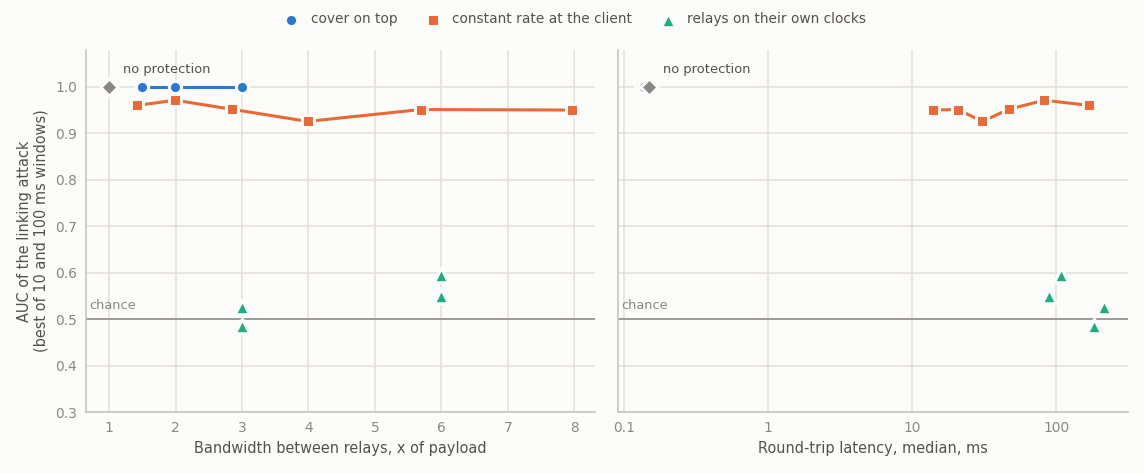
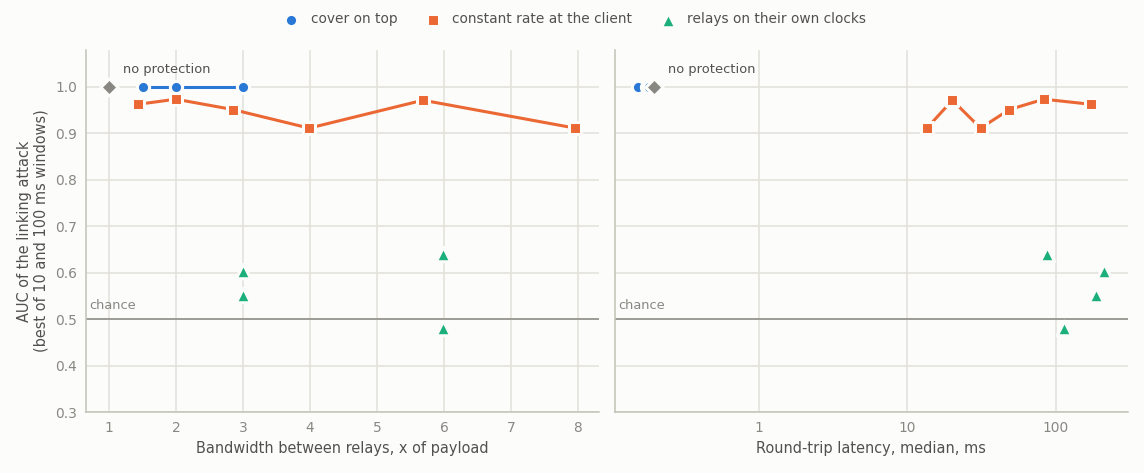
docs: results of the preliminary series re-run on revision 71e1ad8
Table, text and figures of both READMEs come from the reports of the re-run.
Relay clocks are stated as close to chance with the spread of single runs.

diff --git a/README.ru.md b/README.ru.md
@@ -71,11 +71,11 @@
 
 ## Результаты
 
-Предварительная серия: десять потоков, три узла, набор c25519, пять прогонов по 30 с на
-конфигурацию, расписание каждого клиента стартует со случайной фазой. Каждое число это медиана
-пяти прогонов. Строки только с клиентом взяты из серии по скоростям клиента, строки с часами
-узлов из серии по периодам узлов; её собственные прогоны только с клиентом совпадают (AUC 0.947 при
-70 мс, 0.950 при 35 мс). При пяти прогонах на точку различия значимыми не заявляются; полная
+Предварительная серия на ревизии 71e1ad8: десять потоков, три узла, набор c25519, пять прогонов
+по 30 с на конфигурацию, расписание каждого клиента стартует со случайной фазой. Каждое число это
+медиана пяти прогонов. Строки только с клиентом взяты из серии по скоростям клиента, строки с
+часами узлов из серии по периодам узлов; её собственные прогоны только с клиентом совпадают (AUC
+0.951 при 70 мс и при 35 мс). При пяти прогонах на точку различия значимыми не заявляются; полная
 серия по тридцать прогонов на точку впереди
 ([#23](https://github.com/jimichi-org/jimichi/issues/23)). Обвязка lab запускает узлы и клиентов
 в одном процессе на loopback, а не на стенде kind, описанном ниже, поэтому сетевых задержек нет;
@@ -93,39 +93,43 @@
 
 | Защита | Полоса между узлами | Медиана круга | AUC, 10 мс | AUC, 100 мс | Top-1, 10 мс |
 |---|---|---|---|---|---|
-| нет | x1.00 | 0.15 мс | 1.000 | 1.000 | 100% |
-| фон поверх, +2x | x2.99 | 0.13 мс | 1.000 | 1.000 | 100% |
-| постоянная скорость клиента, 70 мс | x2.85 | 47 мс | 0.948 | 0.952 | 60% |
-| постоянная скорость клиента, 35 мс | x5.69 | 21 мс | 0.951 | 0.942 | 70% |
-| узлы по своим часам, 66.5 мс | x3.00 | 182 мс | 0.485 | 0.483 | 0% |
-| узлы по своим часам, 33.25 мс | x5.99 | 89 мс | 0.528 | 0.550 | 10% |
-| оба, клиент 70 мс, узлы 66.5 мс | x2.99 | 216 мс | 0.506 | 0.526 | 15% |
-| оба, клиент 35 мс, узлы 33.25 мс | x5.99 | 108 мс | 0.596 | 0.486 | 10% |
+| нет | x1.00 | 0.198 мс | 1.000 | 1.000 | 100% |
+| фон поверх, +2x | x2.99 | 0.155 мс | 1.000 | 1.000 | 100% |
+| постоянная скорость клиента, 70 мс | x2.85 | 49 мс | 0.951 | 0.951 | 70% |
+| постоянная скорость клиента, 35 мс | x5.69 | 20 мс | 0.971 | 0.971 | 80% |
+| узлы по своим часам, 66.5 мс | x3.00 | 185 мс | 0.523 | 0.551 | 10% |
+| узлы по своим часам, 33.25 мс | x5.99 | 87 мс | 0.641 | 0.498 | 15% |
+| оба, клиент 70 мс, узлы 66.5 мс | x3.00 | 212 мс | 0.604 | 0.586 | 14% |
+| оба, клиент 35 мс, узлы 33.25 мс | x5.99 | 113 мс | 0.482 | 0.463 | 0% |
 
 - Фоновый трафик поверх сообщений не помогает вообще: даже при тройной полосе связывается каждый
   поток.
 - Постоянная скорость на клиенте тоже не скрывает поток. Каждый клиент тикает со своей фазой, фаза
   проходит через цепочку узлов, пересылающих сразу, и при окне 10 мс атака связывает потоки на
-  любой скорости. Окно 100 мс выглядит безопасным только там, где период его делит: тогда почти в
-  каждом окне одинаковое число ячеек и почти все оценки равны (AUC 0.50-0.55), о защите это ничего
-  не говорит. В этой серии последний запущенный клиент тикал в такт окнам наблюдателя, этот
-  эффект стенда с тех пор убран.
+  любой скорости (AUC 0.91-0.99). Окно 100 мс выглядит безопасным только там, где период его
+  делит: тогда почти в каждом окне одинаковое число ячеек и почти все оценки равны (AUC
+  0.50-0.55), о защите это ничего не говорит.
 
 <picture>
   <source media="(prefers-color-scheme: dark)" srcset="docs/img/window-ru-dark.png">
   <img alt="AUC атаки против периода ячеек клиента при окнах 10 и 100 мс" src="docs/img/window-ru-light.png">
 </picture>
 
-- Отправка узлами по своим часам опускает эту атаку, которая считает только ячейки, до угадывания.
-  Цена: постоянный поток на каждом канале, по которому шлёт узел, и около 2.5-2.7 периода узла
-  к кругу (182 мс при 66.5 мс, 89 мс при 33.25 мс). Период узла на 5% короче клиентского, чтобы
-  пропущенный тик наверстать. Моменты открытия и закрытия соединений цепочки совпадают вдоль
-  неё и в атаку пока не входят ([#43](https://github.com/jimichi-org/jimichi/issues/43)).
+- Отправка узлами по своим часам опускает эту атаку, которая считает только ячейки, почти до
+  угадывания: медианы лежат между 0.46 и 0.64, а 95% интервал отдельного прогона включает 0.5 в
+  34 случаях из 40 (из остальных шести четыре лежат выше, два ниже). Пять прогонов по десять
+  потоков не отличают малую остаточную утечку от её отсутствия, это покажет полная серия. Цена:
+  постоянный поток на каждом канале, по которому шлёт узел, и около 2.6-2.8 периода узла к кругу
+  (185 мс при 66.5 мс, 87 мс при 33.25 мс). Период узла на 5% короче клиентского, чтобы
+  пропущенный тик наверстать. Моменты открытия и закрытия соединений цепочки совпадают вдоль неё
+  и в атаку пока не входят
+  ([#43](https://github.com/jimichi-org/jimichi/issues/43)).
 - Постоянная скорость клиента нужна и при часах на узлах: она скрывает разговор от самого входного
   узла, которого здешний наблюдатель не моделирует.
 
 Серии гоняются на свободном хосте; в каждой строке отчёта записаны загрузка хоста, зёрна и ревизия
-кода.
+кода. Круг без часов на узлах короче миллисекунды и отличается между сериями примерно на 0.05 мс
+(0.14-0.20 мс без защиты), поэтому его последние цифры ничего не значат.
 
 ## Криптография
 

diff --git a/README.md b/README.md
@@ -69,12 +69,13 @@ Threat modelling follows the FSTEC methodology of 2021-02-05; scenarios are name
 
 ## Results
 
-Preliminary series: ten flows, three relays, c25519 suite, five 30 s runs per configuration, each
-client starting its schedule at a random phase. Every number is the median across the five runs.
-Rows with the client alone come from the series over client rates, rows with relay clocks from
-the series over relay periods, whose own client-only runs agree (AUC 0.947 at 70 ms, 0.950 at
-35 ms). With five runs per point no difference is claimed as significant; the full series of
-thirty runs per point is still to come ([#23](https://github.com/jimichi-org/jimichi/issues/23)).
+Preliminary series on revision 71e1ad8: ten flows, three relays, c25519 suite, five 30 s runs per
+configuration, each client starting its schedule at a random phase. Every number is the median
+across the five runs. Rows with the client alone come from the series over client rates, rows with
+relay clocks from the series over relay periods, whose own client-only runs agree (AUC 0.951 at
+70 ms and at 35 ms). With five runs per point no difference is claimed as significant; the full
+series of thirty runs per point is still to come
+([#23](https://github.com/jimichi-org/jimichi/issues/23)).
 The lab harness starts the relays and the clients in one process on loopback, not on the kind
 testbed described below, so there is no network delay; network emulation is planned
 ([#46](https://github.com/jimichi-org/jimichi/issues/46)).
@@ -91,40 +92,43 @@ better one for the observer. Chance is AUC 0.5 and top-1 10%.
 
 | Protection | Bandwidth between relays | Median round trip | AUC, 10 ms | AUC, 100 ms | Top-1, 10 ms |
 |---|---|---|---|---|---|
-| none | x1.00 | 0.15 ms | 1.000 | 1.000 | 100% |
-| cover on top, +2x | x2.99 | 0.13 ms | 1.000 | 1.000 | 100% |
-| constant rate at the client, 70 ms | x2.85 | 47 ms | 0.948 | 0.952 | 60% |
-| constant rate at the client, 35 ms | x5.69 | 21 ms | 0.951 | 0.942 | 70% |
-| relays on their own clocks, 66.5 ms | x3.00 | 182 ms | 0.485 | 0.483 | 0% |
-| relays on their own clocks, 33.25 ms | x5.99 | 89 ms | 0.528 | 0.550 | 10% |
-| both, client 70 ms, relays 66.5 ms | x2.99 | 216 ms | 0.506 | 0.526 | 15% |
-| both, client 35 ms, relays 33.25 ms | x5.99 | 108 ms | 0.596 | 0.486 | 10% |
+| none | x1.00 | 0.198 ms | 1.000 | 1.000 | 100% |
+| cover on top, +2x | x2.99 | 0.155 ms | 1.000 | 1.000 | 100% |
+| constant rate at the client, 70 ms | x2.85 | 49 ms | 0.951 | 0.951 | 70% |
+| constant rate at the client, 35 ms | x5.69 | 20 ms | 0.971 | 0.971 | 80% |
+| relays on their own clocks, 66.5 ms | x3.00 | 185 ms | 0.523 | 0.551 | 10% |
+| relays on their own clocks, 33.25 ms | x5.99 | 87 ms | 0.641 | 0.498 | 15% |
+| both, client 70 ms, relays 66.5 ms | x3.00 | 212 ms | 0.604 | 0.586 | 14% |
+| both, client 35 ms, relays 33.25 ms | x5.99 | 113 ms | 0.482 | 0.463 | 0% |
 
 - Cover traffic added on top of real messages does not help at all: even at three times the
   bandwidth every flow is linked.
 - A constant rate at the client does not hide a flow either. Each client ticks with its own phase,
   the phase crosses a chain of relays that forward at once, and with a 10 ms window the attack links
-  flows at every rate. A 100 ms window looks safe only where the period divides it: almost every
-  window then holds the same number of cells and nearly all scores tie (AUC 0.50-0.55), which says
-  nothing about protection. In this series the last client to start ticked in step with the
-  observer's windows, a harness effect since removed.
+  flows at every rate (AUC 0.91-0.99). A 100 ms window looks safe only where the period divides it:
+  almost every window then holds the same number of cells and nearly all scores tie (AUC
+  0.50-0.55), which says nothing about protection.
 
 <picture>
   <source media="(prefers-color-scheme: dark)" srcset="docs/img/window-en-dark.png">
   <img alt="Attack AUC against the client's cell period for a 10 ms and a 100 ms window" src="docs/img/window-en-light.png">
 </picture>
 
-- Relays sending on their own clocks bring this attack, which counts cells only, down to chance.
-  The price is a constant stream on every link a relay sends on and about 2.5 to 2.7 node periods
-  added to a round trip (182 ms at 66.5 ms, 89 ms at 33.25 ms). The relay period is 5% shorter
-  than the client's, so a missed tick is caught up. The moments the connections of a circuit open
-  and close match along the chain and are not part of the attack yet
+- Relays sending on their own clocks bring this attack, which counts cells only, close to chance:
+  the medians lie between 0.46 and 0.64, and the 95% interval of a single run includes 0.5 in 34 of
+  40 cases (of the other six, four lie above and two below). Five runs of ten flows cannot tell a
+  small remaining leak from none; the full series is to settle it. The price is a constant stream
+  on every link a relay sends on and about 2.6 to 2.8 node periods added to a round trip (185 ms
+  at 66.5 ms, 87 ms at 33.25 ms). The relay period is 5% shorter than the client's, so a missed
+  tick is caught up. The moments the connections of a circuit open and close match along the
+  chain and are not part of the attack yet
   ([#43](https://github.com/jimichi-org/jimichi/issues/43)).
 - The client's constant rate still matters with relay clocks on: it hides the conversation from
   the entry node itself, which the observer here does not model.
 
 Series are run on an idle host; every report row records the host load, the seeds and the code
-revision.
+revision. The round trip without relay clocks is below a millisecond and differs between series
+by about 0.05 ms (0.14 to 0.20 ms without protection), so its last digits carry no meaning.
 
 ## Cryptography
 

diff --git a/docs/en/EXPERIMENT.md b/docs/en/EXPERIMENT.md
@@ -326,8 +326,8 @@ comparison will be made: the conditions differ, and that will be stated.
    dashboard ([#21](https://github.com/jimichi-org/jimichi/issues/21)).
 2. The observer: the linking attack runs without protection and with each measure in turn. Cover
    traffic on top of the payload is not expected to lower its AUC: in the preliminary series only
-   nodes sending on their own clocks brought it to chance ([README](../../README.md)). A live
-   view of the attack result is planned with the dashboard
+   nodes sending on their own clocks brought it close to chance ([README](../../README.md)). A
+   live view of the attack result is planned with the dashboard
    ([#21](https://github.com/jimichi-org/jimichi/issues/21)).
 3. The bandwidth multiplier against AUC curve. The published figure has no intervals; confidence
    intervals across runs are planned with the full series
